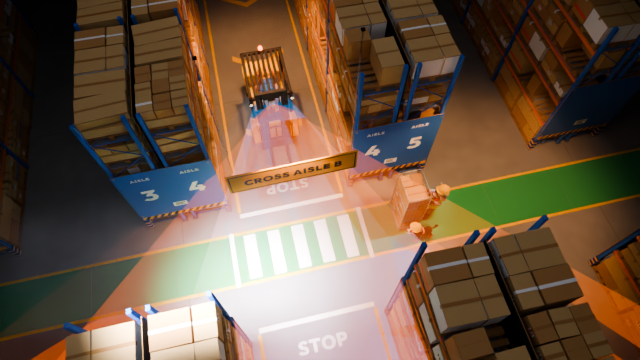
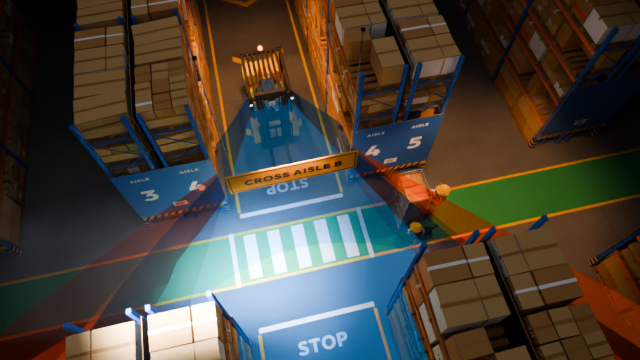
Sightline cones: coloured-gel tint, orange = camera minus driver in plan view; dimmer lamps
Claude-Session: https://claude.ai/code/session_01BntmWCku4jb1pF4QRZCMzN

diff --git a/scripts/builders/fx_sightlines.py b/scripts/builders/fx_sightlines.py
@@ -24,14 +24,17 @@ BLUE = (0.0, 0.42, 1.0)
 ORANGE = (1.0, 0.16, 0.0)
 
 
-def cone_material(name, rgb, strength=0.05, rim=1.4, alpha=0.2, footprint=0.3):
-    """Additive translucent glow, brighter towards the silhouette edges."""
+def cone_material(name, rgb, strength=0.035, rim=1.4, alpha=0.2, footprint=0.12):
+    """Translucent coloured gel with a faint glow, brighter towards the edges and on the floor footprint."""
     mat = bpy.data.materials.get(name) or bpy.data.materials.new(name)
     mat.use_nodes = True
     nt = mat.node_tree
     nt.nodes.clear()
     out = nt.nodes.new("ShaderNodeOutputMaterial")
     tr = nt.nodes.new("ShaderNodeBsdfTransparent")
+    # Coloured-gel tint: the cone filters what's behind it (no brightening, so AgX keeps the hue),
+    # plus a faint additive glow so it still reads over dark floor.
+    tr.inputs["Color"].default_value = (*[0.45 + 0.55 * c for c in rgb], 1)
     em = nt.nodes.new("ShaderNodeEmission")
     em.inputs["Color"].default_value = (*rgb, 1)
     lw = nt.nodes.new("ShaderNodeLayerWeight")
@@ -183,11 +186,18 @@ def build(coll, fl_y=L.FL_ALERT_Y, fl_x=0.0):
     drv = build_cone("FX_Cone_Driver", eye, (0, -1), cone_material("fx_cone_blue", BLUE), coll,
                      half_h_deg=40, half_v_deg=14, length=11.0, tilt_down_deg=7)
     cam = build_cone("FX_Cone_Camera", lens, (0, -1), cone_material("fx_cone_orange", ORANGE,
-                                                                     strength=0.06), coll,
+                                                                     strength=0.04), coll,
                      half_h_deg=58, half_v_deg=20, length=12.0, tilt_down_deg=12)
-    # Orange shows only what the camera sees BEYOND the driver: subtract the blue cone.
-    # (Both meshes have their origin at their own apex; the boolean works in world space.)
-    _apply_boolean(cam, drv)
+    # Orange shows only what the camera sees BEYOND the driver, in plan view: subtract the blue
+    # cone's footprint extended vertically (a copy of it stretched in z about its apex), so no
+    # orange slab is left above or below the blue one.
+    plan = bpy.data.objects.new("FX_cutter_driver_plan", drv.data.copy())
+    geo._link(plan, coll)
+    plan.location = drv.location
+    plan.scale = (1.0, 1.0, 60.0)
+    bpy.context.view_layer.update()
+    _apply_boolean(cam, plan)
+    bpy.data.objects.remove(plan, do_unlink=True)
     for o in (drv, cam):
         geo.parent(o, root)
     root["driver_eye"] = tuple(eye)

diff --git a/scripts/lib/night.py b/scripts/lib/night.py
@@ -61,7 +61,7 @@ def rig(layout, coll_lights, coll_fx=None, haze_density=0.004):
     # Warm practical pools under the three dome lamps.
     for i, (x, y) in enumerate(layout.LAMPS):
         z = layout.LAMP_Z - 0.25
-        L[f"lamp_{i}"] = _spot(f"LGT_Lamp_{i}_3200K", (x, y, z), 1100, 3200, 95, 0.55, 0.12,
+        L[f"lamp_{i}"] = _spot(f"LGT_Lamp_{i}_3200K", (x, y, z), 750, 3200, 95, 0.55, 0.12,
                                coll_lights)
         # a little bounce glow around the bulb so the dome reads lit
         ld = bpy.data.lights.new(f"LGT_Lamp_{i}_glow", "POINT")
